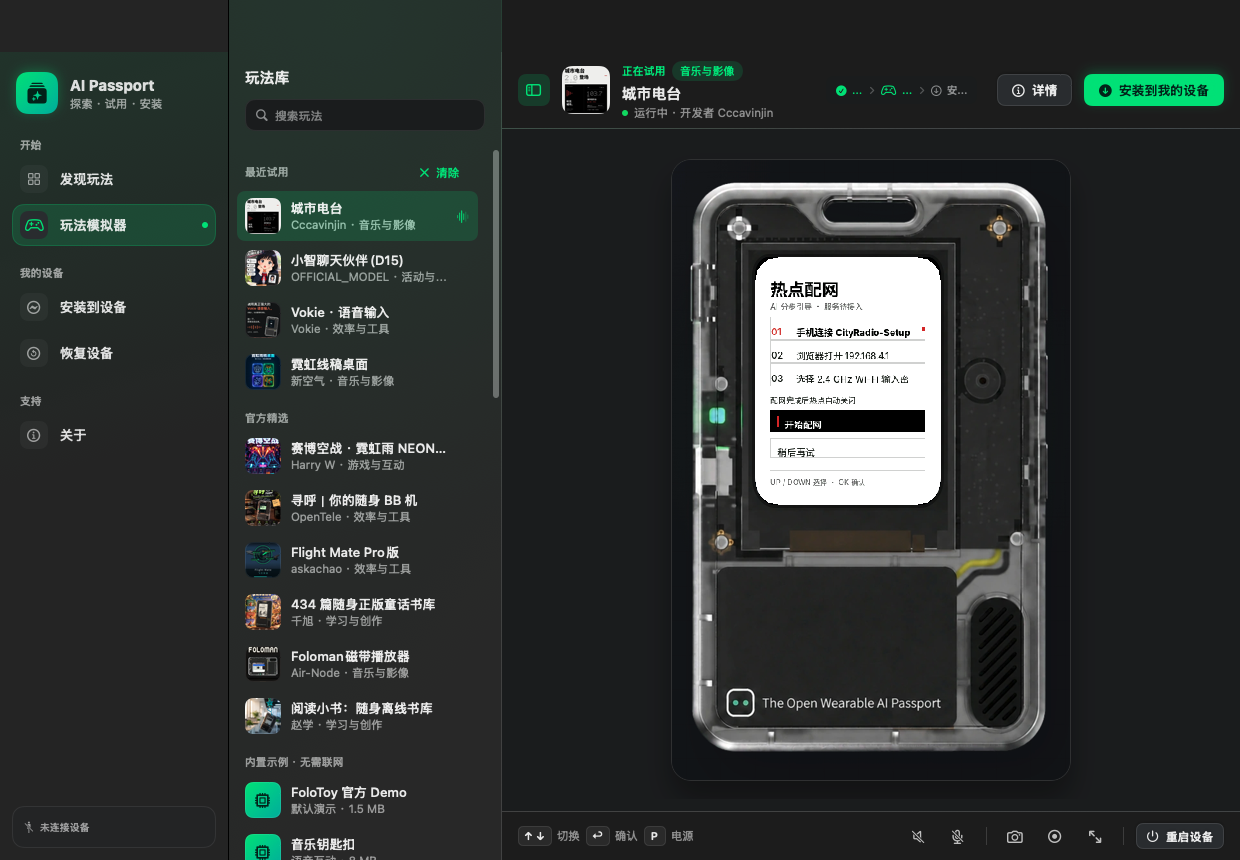
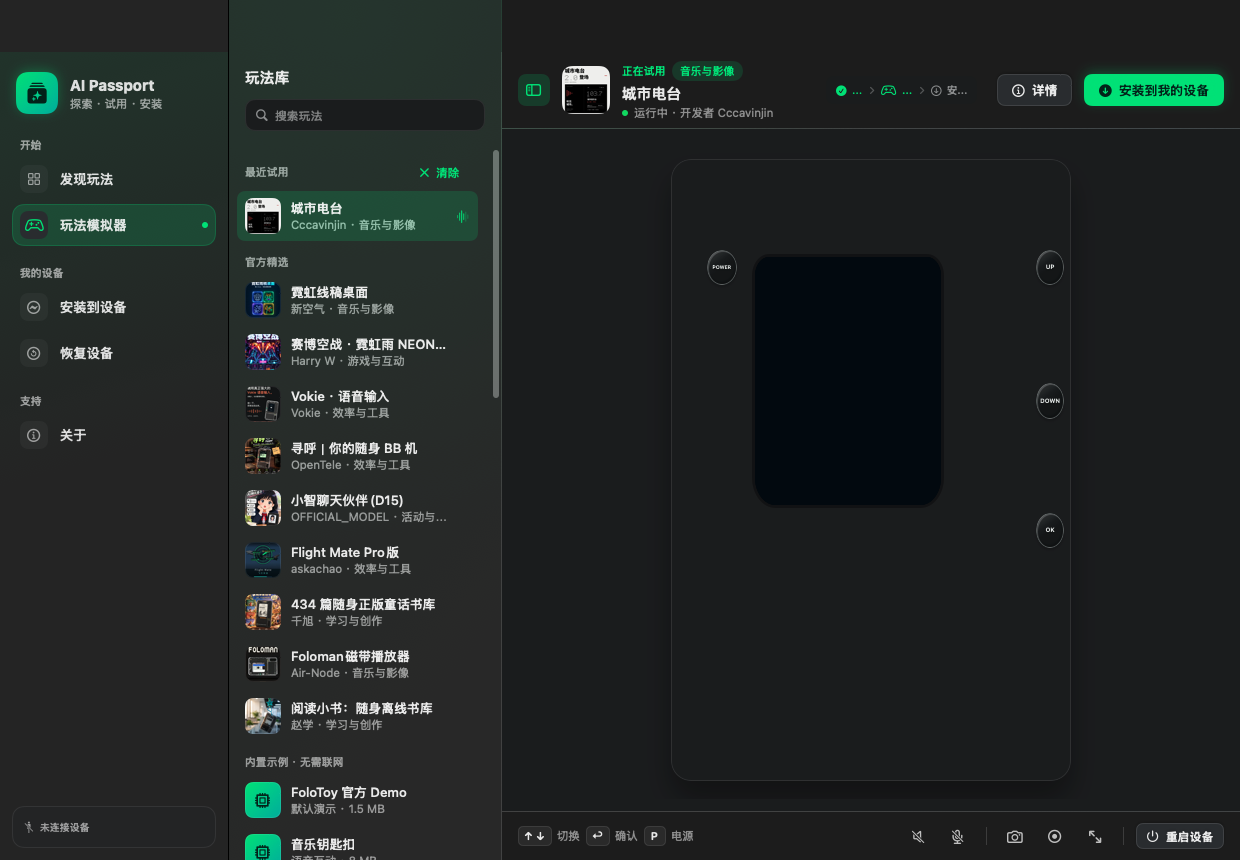
Make simulator side keys visible

Changed region(s): [[0.5516, 0.2116, 0.8581, 0.8767], [0.1839, 0.2721, 0.3677, 0.6349]]

diff --git a/Sources/AIPassportFlasher/Views/SimulatorView.swift b/Sources/AIPassportFlasher/Views/SimulatorView.swift
@@ -1145,10 +1145,10 @@ enum SimulatorBridgeScript {
           shell.appendChild(content);
         }
         const keyVisuals = {
-          POWER: { title: '电源 · P · 长按 2 秒', hold: 2000 },
-          UP: { title: '向上 · 键盘 ↑', hold: 0 },
-          DOWN: { title: '向下 · 键盘 ↓', hold: 0 },
-          OK: { title: '确认 · Return · 长按 0.5 秒', hold: 500 },
+          POWER: { label: 'POWER', title: '电源 · P · 长按 2 秒', hold: 2000 },
+          UP: { label: 'UP', title: '向上 · 键盘 ↑', hold: 0 },
+          DOWN: { label: 'DOWN', title: '向下 · 键盘 ↓', hold: 0 },
+          OK: { label: 'OK', title: '确认 · Return · 长按 0.5 秒', hold: 500 },
         };
         const keyButtons = new Map();
         const activeHolds = new Map();
@@ -1205,7 +1205,10 @@ enum SimulatorBridgeScript {
 
           const face = document.createElement('span');
           face.className = 'apf-key-face';
-          button.append(face);
+          const label = document.createElement('span');
+          label.className = 'apf-key-label';
+          label.textContent = visual.label;
+          button.append(face, label);
 
           if (visual.hold) {
             const ring = document.createElementNS('http://www.w3.org/2000/svg', 'svg');
@@ -1318,9 +1321,9 @@ enum SimulatorTheme {
       overflow: visible !important;
       pointer-events: auto !important;
       appearance: none !important;
-      border: 1px solid transparent !important;
-      border-radius: 42% !important;
-      color: transparent !important;
+      border: 0 !important;
+      border-radius: 50% !important;
+      color: rgba(244, 249, 247, .90) !important;
       background: transparent !important;
       box-shadow: none !important;
       text-shadow: none !important;
@@ -1333,12 +1336,35 @@ enum SimulatorTheme {
     }
     .hardware-key.apf-physical-key .apf-key-face {
       position: absolute;
-      inset: 1px;
+      inset: 0;
       border-radius: inherit;
-      background: transparent !important;
-      box-shadow: none;
+      border: 1px solid rgba(231, 241, 238, .34);
+      background:
+        linear-gradient(145deg, rgba(255, 255, 255, .18), rgba(255, 255, 255, .03) 36%, transparent 54%),
+        rgba(12, 17, 19, .58) !important;
+      box-shadow:
+        inset 1px 1px 0 rgba(255, 255, 255, .20),
+        inset -1px -2px 3px rgba(0, 0, 0, .34),
+        0 2px 4px rgba(0, 0, 0, .26);
+      backdrop-filter: blur(3px) brightness(.90);
       pointer-events: none;
-      transition: background .15s ease, box-shadow .15s ease;
+      transition: border-color .15s ease, background .15s ease, box-shadow .15s ease;
+    }
+    .hardware-key.apf-physical-key .apf-key-label {
+      position: absolute;
+      inset: 0;
+      z-index: 1;
+      display: grid;
+      place-items: center;
+      color: rgba(247, 251, 249, .90);
+      font: 650 clamp(6px, .72vw, 8px)/1 -apple-system, BlinkMacSystemFont, "SF Pro Text", sans-serif !important;
+      letter-spacing: -.025em !important;
+      text-shadow: 0 1px 2px rgba(0, 0, 0, .58);
+      pointer-events: none;
+    }
+    .hardware-key.apf-physical-key.key-power .apf-key-label {
+      font-size: clamp(5px, .58vw, 6.5px) !important;
+      letter-spacing: -.04em !important;
     }
     .hardware-key.apf-physical-key .apf-hold-ring {
       position: absolute;
@@ -1366,27 +1392,37 @@ enum SimulatorTheme {
       opacity: 1;
     }
     .hardware-key.apf-physical-key:hover {
-      border-color: rgba(32, 228, 124, .58) !important;
-      background: rgba(32, 228, 124, .055) !important;
-      box-shadow:
-        inset 0 1px 0 rgba(255, 255, 255, .16),
-        0 0 8px rgba(32, 228, 124, .20) !important;
+      background: transparent !important;
+      box-shadow: none !important;
     }
     .hardware-key.apf-physical-key:hover .apf-key-face {
-      background: linear-gradient(90deg, rgba(255, 255, 255, .10), transparent 48%) !important;
+      border-color: rgba(32, 228, 124, .62);
+      background:
+        linear-gradient(145deg, rgba(255, 255, 255, .20), transparent 52%),
+        rgba(20, 52, 37, .66) !important;
+      box-shadow:
+        inset 1px 1px 0 rgba(255, 255, 255, .20),
+        inset -1px -2px 3px rgba(0, 0, 0, .24),
+        0 0 7px rgba(32, 228, 124, .22);
     }
     .hardware-key.apf-physical-key:active,
     .hardware-key.apf-physical-key.is-pressed {
       transform: translateY(1px) scale(.94) !important;
-      border-color: rgba(32, 228, 124, .72) !important;
-      background: rgba(7, 12, 10, .18) !important;
-      box-shadow:
-        inset 0 2px 4px rgba(0, 0, 0, .38),
-        0 0 6px rgba(32, 228, 124, .16) !important;
+      background: transparent !important;
+      box-shadow: none !important;
+    }
+    .hardware-key.apf-physical-key:active .apf-key-face,
+    .hardware-key.apf-physical-key.is-pressed .apf-key-face {
+      border-color: rgba(32, 228, 124, .68);
+      background: rgba(5, 10, 8, .26) !important;
+      box-shadow: inset 0 2px 4px rgba(0, 0, 0, .44), 0 0 5px rgba(32, 228, 124, .15);
     }
     .hardware-key.apf-physical-key.apf-long-ready {
-      border-color: rgba(32, 228, 124, .78) !important;
-      box-shadow: 0 0 9px rgba(32, 228, 124, .30) !important;
+      box-shadow: none !important;
+    }
+    .hardware-key.apf-physical-key.apf-long-ready .apf-key-face {
+      border-color: rgba(32, 228, 124, .72);
+      box-shadow: 0 0 7px rgba(32, 228, 124, .24);
     }
     .hardware-key.apf-physical-key:focus-visible {
       outline: 2px solid #20E47C !important;
